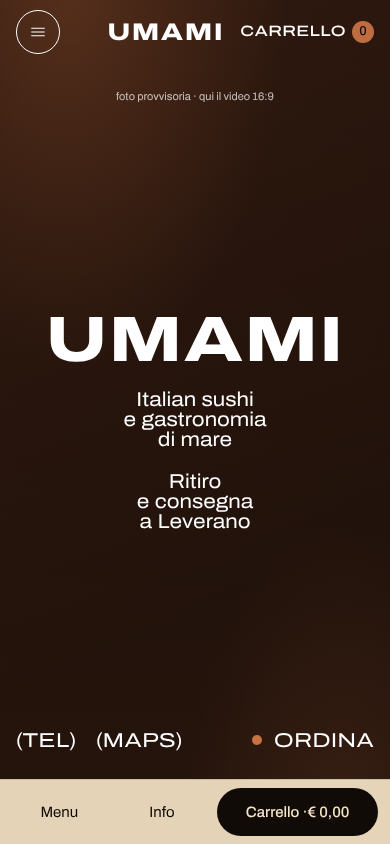
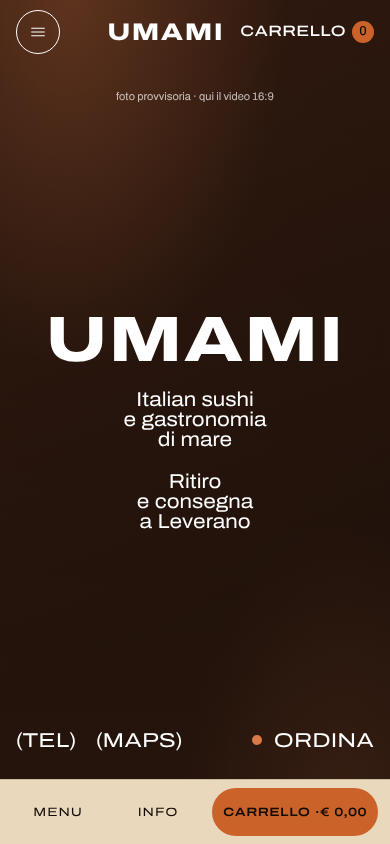
v0.9: arancione piu' saturo, proporzioni delle schede, menu e barra mobile
Claude-Session: https://claude.ai/code/session_01LSCnPxq5ZLnrvnRqcxrqF5

Changed region(s): [[0.5231, 0.9242, 0.9846, 1.0], [0.0923, 0.955, 0.2154, 0.9858], [0.3692, 0.955, 0.4615, 0.9858]]

diff --git a/assets/css/v7.css b/assets/css/v7.css
@@ -176,7 +176,7 @@ body > .v7-header.is-solida { position: sticky; top: 0; }
 :root {
   --c-rame-1: #3A1E12;   /* marrone rame, luce */
   --c-rame-2: #160D08;   /* marrone rame, ombra */
-  --rame-sfumato: radial-gradient(90% 70% at 18% 0%, rgba(200,113,65,.34), rgba(200,113,65,0) 62%),
+  --rame-sfumato: radial-gradient(90% 70% at 18% 0%, rgba(217,121,69,.38), rgba(217,121,69,0) 62%),
                   radial-gradient(60% 55% at 88% 100%, rgba(191,109,64,.20), rgba(191,109,64,0) 70%),
                   linear-gradient(160deg, var(--c-rame-1), var(--c-rame-2) 70%);
 }
@@ -186,3 +186,42 @@ body > .v7-header.is-solida { position: sticky; top: 0; }
 .v7-hero__media::after { background: linear-gradient(180deg, rgba(22,13,8,.25), rgba(58,30,18,.45)); }
 .v7-carrello .u-conta, .u-barra a.u-barra__cta .u-conta { background: var(--c-corallo); color: var(--c-inchiostro); }
 .u-btn--segnale { --btn-bg: var(--c-corallo); --btn-bd: var(--c-corallo); --btn-fg: var(--c-inchiostro); }
+
+/* =========================================================================
+   v0.9 · proporzioni delle schede, menu mobile, barra in basso
+   ========================================================================= */
+/* Piatti: foto 4:3 (meno alte), testo compatto, piede allineato in fondo a tutte le schede */
+.v7-prodotti { grid-template-columns: repeat(auto-fill, minmax(min(100%, 280px), 1fr)); }
+.v7-prod { display: flex; flex-direction: column; }
+.v7-prod__media { aspect-ratio: 4 / 3; }
+.v7-prod__corpo { flex: 1; display: flex; flex-direction: column; gap: 10px; padding: 18px 20px 20px; }
+.v7-prod__nome { font-size: 1.125rem; }
+.v7-prod__desc { display: -webkit-box; -webkit-line-clamp: 2; -webkit-box-orient: vertical; overflow: hidden; max-width: none; }
+.v7-prod__piede { margin-top: auto; padding-top: 12px; display: flex; align-items: center; justify-content: space-between; gap: 12px; border-top: 1px solid rgba(16,11,6,.12); }
+.v7-prod__piede .u-allergeni { gap: 0 .6em; }
+.v7-prod__piede .u-btn { flex: none; }
+/* Servizi: 3 colonne larghe, foto 3:2 invece di 5 colonne strette 4:5 */
+.h-servizi { --min: 320px; --gap: 48px 24px; }
+.h-servizi .u-servizio__media { aspect-ratio: 3 / 2; }
+/* Menu a tendina: foto meno alte */
+.v7-mega__foto { aspect-ratio: 4 / 3; }
+
+/* Menu mobile: pannello a tutto schermo sotto la testata, scorrimento interno */
+@media (max-width: 1023px) {
+  .v7-mob { position: fixed; inset: 64px 0 0 0; z-index: var(--z-overlay); max-height: none; overflow-y: auto; overscroll-behavior: contain;
+    background: var(--c-carta); color: var(--c-inchiostro); padding: 8px 16px calc(24px + env(safe-area-inset-bottom)); display: flex; flex-direction: column; gap: 20px; border-top: 1px solid rgba(16,11,6,.14); }
+  .v7-mob[hidden] { display: none !important; }
+  .v7-mob__lista > li { padding-block: 16px; }
+  .v7-mob a.v7-mob__titolo { font-size: 2.25rem; min-height: 48px; }
+  .v7-mob__gruppo ul { gap: 6px; margin-top: 10px; }
+  .v7-mob__gruppo ul a { font-size: .8125rem; letter-spacing: .08em; min-height: 44px; padding: 0 14px; border: 1px solid rgba(16,11,6,.22); border-radius: 999px; }
+  .v7-mob__piede { display: grid; gap: 12px; margin-top: auto; }
+  .v7-mob__piede .u-btn { width: 100%; }
+}
+/* Barra in basso su mobile: stessa voce della testata, carrello in arancione */
+.u-barra { background: color-mix(in srgb, var(--c-carta) 94%, transparent); border-top: 1px solid rgba(16,11,6,.14); grid-template-columns: 1fr 1fr 1.8fr; backdrop-filter: blur(12px); -webkit-backdrop-filter: blur(12px); }
+.u-barra a { font-family: var(--font-display); font-stretch: 125%; text-transform: uppercase; letter-spacing: .08em; font-size: .75rem; color: var(--c-inchiostro); border-radius: 0; }
+.u-barra a.u-barra__cta { background: var(--c-corallo); color: var(--c-inchiostro); font-weight: 600; border-radius: 999px; letter-spacing: .04em; }
+.v7-mob__piede { grid-template-columns: minmax(0, 1fr); }
+.v7-mob__piede a.u-btn { font-family: var(--font-sans); font-stretch: 100%; font-size: 1.0625rem; font-weight: var(--wght-forte); text-transform: none; border: 1px solid var(--c-inchiostro); min-height: 56px; white-space: normal; }
+html.menu-aperto .u-barra { display: none; }

diff --git a/prototipo/index.html b/prototipo/index.html
@@ -41,7 +41,11 @@
   <nav class="u-nav-mobile v7-mob" id="nav-mobile" aria-label="Principale, mobile" hidden>
     <ul class="v7-mob__lista"><li class="v7-mob__gruppo"><a class="v7-mob__titolo" href="ordina/#uramaki-special">Sushi.</a><ul><li><a href="ordina/#uramaki-special">Uramaki special</a></li><li><a href="ordina/#uramaki-classici">Uramaki classici</a></li><li><a href="ordina/#vegetariani">I vegetariani</a></li><li><a href="ordina/#non-crudi">I non crudi</a></li><li><a href="ordina/#hosomaki">Hosomaki</a></li><li><a href="ordina/#sashimi">Sashimi e nigiri</a></li></ul></li><li class="v7-mob__gruppo"><a class="v7-mob__titolo" href="ordina/#tartare">Cucina.</a><ul><li><a href="ordina/#tartare">Tartare</a></li><li><a href="ordina/#poke">Poke</a></li><li><a href="ordina/#bao">Bao buns</a></li><li><a href="ordina/#gyoza">Gyoza</a></li><li><a href="ordina/#sfizierie">Sfizierie</a></li><li><a href="ordina/#primi">Primi e gastronomia</a></li></ul></li><li class="v7-mob__gruppo"><a class="v7-mob__titolo" href="ordina/#dolci">Da bere.</a><ul><li><a href="ordina/#dolci">Dolci</a></li><li><a href="ordina/#bevande">Bevande</a></li><li><a href="ordina/#birre">Birre</a></li><li><a href="ordina/#vini">Vini e bollicine</a></li></ul></li>
       <li><a class="v7-mob__titolo" href="#servizi">Catering.</a></li><li><a class="v7-mob__titolo" href="#chi-siamo">Chi siamo.</a></li></ul>
-    <span class="u-stato" data-stato>Tutti i giorni 19:00–23:30</span>
+    <div class="v7-mob__piede">
+      <span class="u-stato" data-stato>Tutti i giorni 19:00–23:30</span>
+      <button class="u-btn u-btn--l u-btn--segnale js-apri-carrello" type="button">Carrello · <span data-totale>€ 0,00</span></button>
+      <a class="u-btn u-btn--l u-btn--secondario" href="tel:+393476168387">Chiama +39 347 616 8387</a>
+    </div>
   </nav>
 </header>
 
@@ -143,7 +147,7 @@
     return '<article class="v7-prod rivela" style="--i:' + i + '">' +
       '<div class="v7-prod__media"><img src="' + U.IMG + x.foto + '" alt="" loading="lazy" onerror="this.classList.add(\'manca\')"></div><span class="v7-prod__badge">Foto provvisoria</span>' +
       '<div class="v7-prod__corpo"><div class="v7-prod__riga"><h3 class="v7-prod__nome">' + U.esc(x.nome) + '</h3>' + U.prezzo(x) + '</div>' +
-      '<p class="v7-prod__desc">' + U.esc(x.d) + '</p>' + U.allergeni(x.al) + U.bottoneAggiungi(x) + '</div></article>';
+      '<p class="v7-prod__desc">' + U.esc(x.d) + '</p><div class="v7-prod__piede">' + U.allergeni(x.al) + U.bottoneAggiungi(x) + '</div></div></article>';
   }).join("");
 
 

diff --git a/prototipo/ordina/index.html b/prototipo/ordina/index.html
@@ -41,7 +41,11 @@
   <nav class="u-nav-mobile v7-mob" id="nav-mobile" aria-label="Principale, mobile" hidden>
     <ul class="v7-mob__lista"><li class="v7-mob__gruppo"><a class="v7-mob__titolo" href="../ordina/#uramaki-special">Sushi.</a><ul><li><a href="../ordina/#uramaki-special">Uramaki special</a></li><li><a href="../ordina/#uramaki-classici">Uramaki classici</a></li><li><a href="../ordina/#vegetariani">I vegetariani</a></li><li><a href="../ordina/#non-crudi">I non crudi</a></li><li><a href="../ordina/#hosomaki">Hosomaki</a></li><li><a href="../ordina/#sashimi">Sashimi e nigiri</a></li></ul></li><li class="v7-mob__gruppo"><a class="v7-mob__titolo" href="../ordina/#tartare">Cucina.</a><ul><li><a href="../ordina/#tartare">Tartare</a></li><li><a href="../ordina/#poke">Poke</a></li><li><a href="../ordina/#bao">Bao buns</a></li><li><a href="../ordina/#gyoza">Gyoza</a></li><li><a href="../ordina/#sfizierie">Sfizierie</a></li><li><a href="../ordina/#primi">Primi e gastronomia</a></li></ul></li><li class="v7-mob__gruppo"><a class="v7-mob__titolo" href="../ordina/#dolci">Da bere.</a><ul><li><a href="../ordina/#dolci">Dolci</a></li><li><a href="../ordina/#bevande">Bevande</a></li><li><a href="../ordina/#birre">Birre</a></li><li><a href="../ordina/#vini">Vini e bollicine</a></li></ul></li>
       <li><a class="v7-mob__titolo" href="../#servizi">Catering.</a></li><li><a class="v7-mob__titolo" href="../#chi-siamo">Chi siamo.</a></li></ul>
-    <span class="u-stato" data-stato>Tutti i giorni 19:00–23:30</span>
+    <div class="v7-mob__piede">
+      <span class="u-stato" data-stato>Tutti i giorni 19:00–23:30</span>
+      <button class="u-btn u-btn--l u-btn--segnale js-apri-carrello" type="button">Carrello · <span data-totale>€ 0,00</span></button>
+      <a class="u-btn u-btn--l u-btn--secondario" href="tel:+393476168387">Chiama +39 347 616 8387</a>
+    </div>
   </nav>
 </header>
 

diff --git a/assets/css/tokens.css b/assets/css/tokens.css
@@ -19,9 +19,9 @@
   --c-lacca-2:          #3D1611;  /* riflesso della lacca */
   --c-ottone:           #B08D57;  /* filetti e dettagli metallici · mai testo su carta */
   --c-ottone-chiaro:    #C9A877;  /* ottone su fondi scuri · 8:1 su lacca */
-  --c-corallo:          #BF6D40;  /* v0.8 ARANCIONE UMAMI meno saturo (da #DD6727 del sito): titoli grandi su crema 3.1:1, testo nero sopra 5.1:1 */
-  --c-corallo-scuro:    #8E4F2D;  /* testo piccolo su crema 5.1:1, pulsanti con testo bianco 6.4:1 */
-  --c-corallo-chiaro:   #C87141;  /* su nero 5.5:1, sul marrone rame 4.3–5.4:1 */
+  --c-corallo:          #CB622A;  /* v0.9 ARANCIONE UMAMI (vicino a #DD6727 del sito, un filo meno saturo): titoli grandi su crema 3.2:1, testo nero sopra 5:1 */
+  --c-corallo-scuro:    #974A21;  /* testo piccolo su crema 5.1:1, pulsanti con testo bianco 6.3:1 */
+  --c-corallo-chiaro:   #D97945;  /* sui fondi rame/neri 4.9–6.3:1 */
   --c-bianco:           #FFFFFF;
   --c-successo:         #2F6B3B;
   --c-attenzione:       #8A5A00;

diff --git a/assets/js/umami.js b/assets/js/umami.js
@@ -248,8 +248,9 @@
       var a = mb.getAttribute("aria-expanded") === "true";
       mb.setAttribute("aria-expanded", String(!a)); mb.setAttribute("aria-label", a ? "Apri il menu" : "Chiudi il menu"); nm.hidden = a;
       if (hdx) hdx.classList.toggle("is-mega", !a);
+      doc.body.style.overflow = a ? "" : "hidden"; root.classList.toggle("menu-aperto", !a);
     });
-    if (nm) nm.addEventListener("click", function (e) { if (e.target.closest("a")) { nm.hidden = true; mb.setAttribute("aria-expanded", "false"); mb.setAttribute("aria-label", "Apri il menu"); if (hdx) hdx.classList.remove("is-mega"); } });
+    if (nm) nm.addEventListener("click", function (e) { if (e.target.closest("a, .js-apri-carrello")) { nm.hidden = true; doc.body.style.overflow = ""; root.classList.remove("menu-aperto"); mb.setAttribute("aria-expanded", "false"); mb.setAttribute("aria-label", "Apri il menu"); if (hdx) hdx.classList.remove("is-mega"); } });
 
     doc.addEventListener("click", function (e) {
       var t = e.target;

diff --git a/strumenti/testata.py b/strumenti/testata.py
@@ -40,7 +40,11 @@ def testata(P,R,attiva='',solida=False,cassa=False):
   <nav class="u-nav-mobile v7-mob" id="nav-mobile" aria-label="Principale, mobile" hidden>
     <ul class="v7-mob__lista">{mob}
       <li><a class="v7-mob__titolo" href="{P}#servizi">Catering.</a></li><li><a class="v7-mob__titolo" href="{P}#chi-siamo">Chi siamo.</a></li></ul>
-    <span class="u-stato" data-stato>Tutti i giorni 19:00–23:30</span>
+    <div class="v7-mob__piede">
+      <span class="u-stato" data-stato>Tutti i giorni 19:00–23:30</span>
+      <button class="u-btn u-btn--l u-btn--segnale js-apri-carrello" type="button">Carrello · <span data-totale>€ 0,00</span></button>
+      <a class="u-btn u-btn--l u-btn--secondario" href="tel:+393476168387">Chiama +39 347 616 8387</a>
+    </div>
   </nav>
 </header>'''
 PAGINE=[('prototipo/index.html','','../','',False,False),('prototipo/ordina/index.html','../','../../','menu',True,False),('prototipo/checkout/index.html','../','../../','',True,True)]

diff --git a/docs/fase-3/RESOCONTO-NOTTE.md b/docs/fase-3/RESOCONTO-NOTTE.md
@@ -30,3 +30,10 @@ In `docs/fase-3/schermate/`. Fatte su questa macchina, dove le foto provvisorie 
 - Sezioni scure (apertura, servizi, footer): **rame marrone sfumato**, da `#3A1E12` a `#160D08` con luce calda.
 - Crema confermata `#F5E4C7`.
 - Verifiche ripetute: percorso d'ordine completo ok, 0 problemi di accessibilità, nessuno sbordo su mobile. Schermate aggiornate.
+
+## Aggiornamento v0.9 (richieste di Davide)
+- **Arancione più saturo**: `#CB622A`, vicino all'arancione del sito `#DD6727`; scuro `#974A21` per testo piccolo, chiaro `#D97945` sui fondi scuri. La luce nella sfumatura rame è più arancione.
+- **Proporzioni delle schede**: piatti con foto 4:3 (meno alte), descrizione su 2 righe, allergeni e pulsante allineati in fondo a tutte le schede. Servizi su 3 colonne larghe con foto 3:2 invece di 5 strette.
+- **Menu mobile**: pannello a tutto schermo che blocca lo scorrimento della pagina, categorie come pulsanti da 44 px, in fondo carrello e chiamata. La barra in basso si nasconde mentre il menu è aperto.
+- **Barra in basso su mobile**: voci in maiuscolo come la testata, carrello in arancione.
+- Verifiche: percorso d'ordine ok, 0 problemi di accessibilità, nessuno sbordo.
